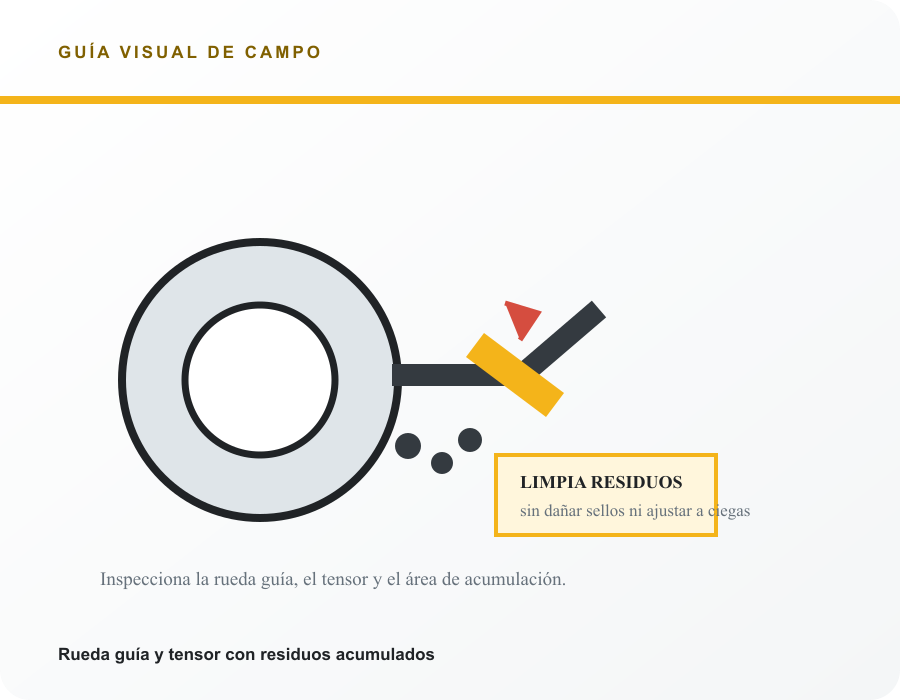
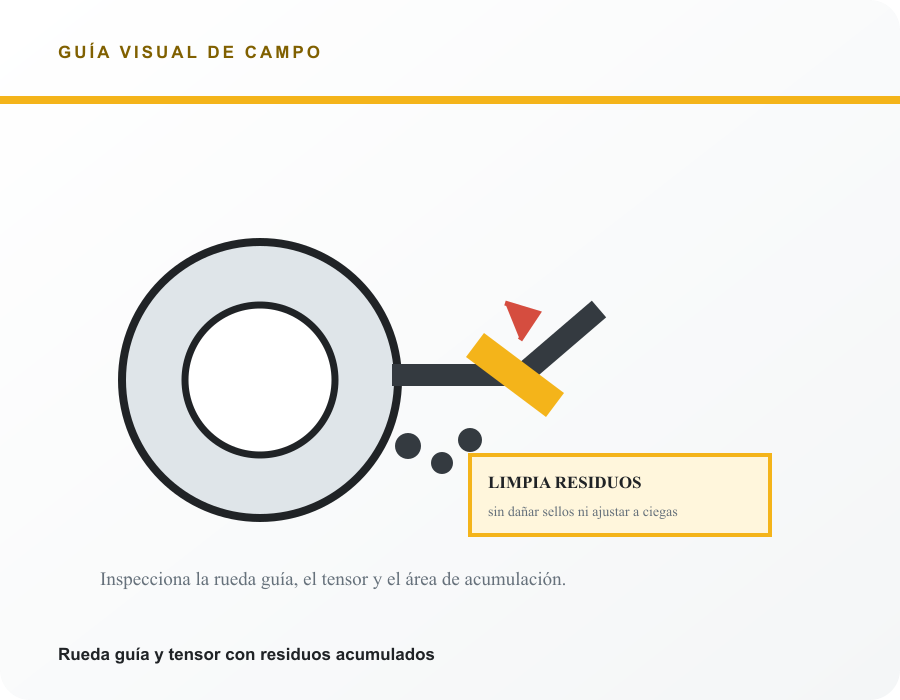
MEJORA ARTICULO DE TREN DE RODAJE Y BUSCADOR MOVIL

Changed region(s): [[0.4978, 0.63, 0.8711, 0.78]]

diff --git a/app/globals.css b/app/globals.css
@@ -28,17 +28,18 @@
 .blog-article-header h1 { margin:.7rem 0 1rem; color:#17212a; font-size:clamp(2.2rem,6vw,3.8rem); font-weight:800; line-height:1.08; letter-spacing:-.04em; }
 .blog-article-header>p { margin:0; color:#64748b; font-size:1.15rem; line-height:1.7; }
 .blog-cover { width:100%; max-height:520px; margin:0 0 2rem; border-radius:1rem; object-fit:cover; }
-.blog-prose { color:#334155; font-size:1.05rem; line-height:1.85; }
-.blog-prose h2 { margin:2.5rem 0 .8rem; color:#17212a; font-size:1.7rem; line-height:1.25; font-weight:750; }
-.blog-prose p { margin:0 0 1.3rem; white-space:pre-wrap; }
+.blog-prose { color:#334155; font-size:1.05rem; line-height:1.7; }
+.blog-prose h2 { margin:1.7rem 0 .65rem; color:#17212a; font-size:1.7rem; line-height:1.25; font-weight:750; }
+.blog-prose p { margin:0 0 .85rem; white-space:normal; }
+.blog-prose p:empty,.blog-prose p:has(> br:only-child) { display:none; }
 .blog-prose ul { margin:0 0 1.5rem; padding-left:1.5rem; list-style:disc; }
 .blog-prose li { padding:.2rem 0; }
 .blog-prose li p { margin:0; }
-.blog-prose figure { margin:2rem 0; }
+.blog-prose figure { margin:1.2rem 0; }
 .blog-prose figure img { width:100%; max-height:620px; border-radius:.85rem; object-fit:contain; background:#f1f5f9; }
 .blog-prose figure.blog-pdf iframe { width:100%; min-height:620px; border:1px solid #d8d8dc; background:#f3f3f4; }
 .blog-page-break { height:1px; margin:3rem 0; border:0; border-top:1px dashed #cbd5e1; break-after:page; }
-.blog-prose figcaption { margin-top:.5rem; color:#64748b; text-align:center; font-size:.85rem; }
+.blog-prose figcaption { margin-top:.4rem; color:#64748b; text-align:center; font-size:.85rem; line-height:1.45; }
 .blog-video { position:relative; width:100%; padding-top:56.25%; overflow:hidden; border-radius:.85rem; background:#0f172a; }
 .blog-video iframe,.blog-video video { position:absolute; inset:0; width:100%; height:100%; border:0; }
 .blog-file { display:flex; width:100%; min-height:48px; box-sizing:border-box; align-items:center; justify-content:space-between; gap:.75rem; margin:1.5rem 0; padding:1rem 1.2rem; border:1px solid #fed7aa; border-radius:.75rem; color:#9a3412; font-weight:700; text-decoration:none; background:#fff7ed; overflow-wrap:anywhere; touch-action:manipulation; cursor:pointer; }
@@ -325,7 +326,7 @@
 .blog-article-summary>span { margin:0 0 .8rem; color:#806000; font-size:.8rem; font-weight:800; letter-spacing:.16em; }
 .blog-article-summary>p { margin:0; color:var(--store-ink); font-size:clamp(1.08rem,2vw,1.3rem); line-height:1.65; }
 .blog-cover { height:100%; min-height:270px; max-height:390px; margin:0; object-fit:cover; }
-.blog-visual-section { display:grid; grid-template-columns:minmax(0,1fr) minmax(280px,.86fr); gap:clamp(1rem,3vw,2.3rem); align-items:center; margin:2.2rem 0; padding:clamp(1rem,3vw,2rem); border:1px solid var(--store-border); border-radius:18px; background:#fff; box-shadow:var(--store-card-shadow); }
+.blog-visual-section { display:grid; grid-template-columns:minmax(0,1fr) minmax(280px,.86fr); gap:clamp(.8rem,2vw,1.4rem); align-items:center; margin:1rem 0; padding:clamp(.8rem,2vw,1.2rem); border:1px solid var(--store-border); border-radius:18px; background:#fff; box-shadow:var(--store-card-shadow); }
 .blog-visual-section.image-left { grid-template-columns:minmax(280px,.86fr) minmax(0,1fr); }
 .blog-visual-section.image-left figure { grid-column:1; grid-row:1; }
 .blog-visual-section.image-left .blog-visual-section__copy { grid-column:2; grid-row:1; }
@@ -333,7 +334,7 @@
 .blog-visual-section__copy> :first-child { margin-top:0; }
 .blog-visual-section__copy> :last-child { margin-bottom:0; }
 .blog-visual-section figure { width:100%; margin:0; }
-.blog-visual-section figure img { width:100%; max-height:480px; border-radius:12px; object-fit:contain; background:#f4f6f7; }
+.blog-visual-section figure img { width:100%; max-height:380px; border-radius:12px; object-fit:contain; background:#f4f6f7; }
 .blog-visual-section figcaption { color:var(--store-muted); font-size:.82rem; line-height:1.45; }
 .blog-photo-credit { display:block; margin-top:.35rem; color:var(--store-muted); font-size:.72rem; line-height:1.4; }
 .blog-photo-credit a { color:inherit; text-decoration:underline; text-underline-offset:2px; }
@@ -374,7 +375,7 @@
 .word-editable [data-blog-section-illustration] { width:100%; height:auto; grid-column:2; grid-row:1; align-self:center; border:1px solid #e3e3e6; background:#f4f6f7; }
 .word-editable [data-blog-section-copy] { min-width:0; grid-column:1; grid-row:1; }
 @media(max-width:720px) { .blog-article-intro,.blog-visual-section,.blog-visual-section.image-left { grid-template-columns:minmax(0,1fr); } .blog-article-summary { min-height:0; } .blog-cover { min-height:0; max-height:300px; } .blog-visual-section.image-left figure,.blog-visual-section.image-left .blog-visual-section__copy { grid-column:1; grid-row:auto; } }
-@media(max-width:720px) { .blog-visual-section { gap:1rem; margin:1.25rem 0; padding:1rem; border-radius:14px; } .blog-visual-section figure img { max-height:none; } .blog-visual-section__copy figure img { max-height:260px; } .blog-visual-section figcaption { font-size:.78rem; } }
+@media(max-width:720px) { .blog-visual-section { gap:.75rem; margin:.85rem 0; padding:.8rem; border-radius:14px; } .blog-visual-section figure img { max-height:300px; } .blog-visual-section__copy figure img { max-height:240px; } .blog-visual-section figcaption { font-size:.78rem; } }
 @media(max-width:760px) { .word-editable [data-blog-article-section],.word-editable [data-blog-article-section][data-blog-layout="image-left"] { grid-template-columns:minmax(0,1fr); } .word-editable [data-blog-article-section] [data-blog-section-illustration],.word-editable [data-blog-article-section] [data-blog-section-copy] { grid-column:1; grid-row:auto; } }
 
 :root {
@@ -476,6 +477,14 @@ main.min-h-screen.bg-slate-50 { background-color: var(--store-bg); }
 .site-navbar__mobile .border-slate-200 { border-color: #39393d; }
 .site-navbar__mobile a:hover { background: #252529; }
 .site-navbar__mobile input { color: #242426; background: #fff; }
+.site-navbar__mobile .navbar-search-suggestions { color:#242426; background:#fff; border-color:#dedee2; }
+.site-navbar__mobile .navbar-search-suggestions__heading { color:#74747a; background:#f5f5f6; }
+.site-navbar__mobile .navbar-search-suggestion { color:#303036; background:#fff; }
+.site-navbar__mobile .navbar-search-suggestion:hover,.site-navbar__mobile .navbar-search-suggestion:focus-visible { color:#171719; background:#fff8e5; outline:none; }
+.site-navbar__mobile .navbar-search-suggestion__title { color:#242426; }
+.site-navbar__mobile .navbar-search-suggestion__sku { color:#717178; }
+.site-navbar__mobile .navbar-search-suggestion__brand { color:#965c00; }
+.site-navbar__mobile .navbar-search-suggestions .bg-slate-50 { color:#707077; background:#f5f5f6; border-color:#e5e5e8; }
 .support-menu { position: absolute; top: calc(100% + 12px); left: 0; z-index: 80; width: min(680px, calc(100vw - 32px)); padding: 18px; border: 1px solid var(--store-border); border-radius: 18px; background: #fff; color: var(--store-ink); box-shadow: 0 18px 45px rgba(18,18,18,.18); }
 .support-menu__tabs { display: flex; gap: 8px; padding-bottom: 14px; border-bottom: 1px solid var(--store-border); }
 .support-menu__tabs button { padding: 8px 13px; border: 1px solid var(--store-border); border-radius: 999px; color: var(--store-muted); font-size: 12px; font-weight: 700; }

diff --git a/components/BlogContent.js b/components/BlogContent.js
@@ -10,6 +10,47 @@ function pdfLabel(value) {
   return String(value || '').replace(/^(?:📄\s*)+/, '').replace(/(?:\s*↗)+$/, '').trim() || 'Abrir documento PDF';
 }
 
+const articleTwoIllustrations = {
+  'articulo-2-zapatas.png': {
+    alt: 'Esquema ilustrativo de zapatas y eslabones de oruga con un perno faltante',
+    title: 'Esquema ilustrativo: identifica grietas, deformaciones o pernos faltantes en las zapatas.',
+  },
+  'articulo-2-rodillos.png': {
+    alt: 'Diagrama de inspección de rodillos inferiores con una señal de posible fuga',
+    title: 'Diagrama de referencia: busca desgaste, daños y humedad alrededor de los sellos.',
+  },
+  'articulo-2-sprocket.png': {
+    alt: 'Esquema ilustrativo de una rueda dentada con perfil desgastado',
+    title: 'Esquema ilustrativo: compara el perfil de los dientes y su contacto con la cadena.',
+  },
+  'articulo-2-guia-tensor.png': {
+    alt: 'Esquema ilustrativo de rueda guía y tensor con residuos acumulados',
+    title: 'Esquema ilustrativo: ubica residuos alrededor de la rueda guía y el tensor.',
+  },
+  'articulo-2-bastidor.png': {
+    alt: 'Diagrama esquemático del bastidor y las protecciones de una excavadora de orugas',
+    title: 'Diagrama de referencia: revisa el bastidor, las fijaciones y las protecciones.',
+  },
+  'articulo-2-limpieza.png': {
+    alt: 'Diagrama ilustrativo de barro acumulado en rodillos y cadena',
+    title: 'Diagrama ilustrativo: retira barro y piedras antes de inspeccionar el tren de rodaje.',
+  },
+  'articulo-2-tension-manual.png': {
+    alt: 'Diagrama orientativo de medición de tensión y consulta del manual de la máquina',
+    title: 'Diagrama orientativo: consulta el procedimiento y las medidas del manual de tu máquina.',
+  },
+  'articulo-2-rutina.png': {
+    alt: 'Infografía con cinco pasos para inspeccionar el tren de rodaje por turno',
+    title: 'Infografía: sigue esta rutina por turno y registra cualquier anomalía.',
+  },
+};
+
+function imageDetails(src, alt, title) {
+  const filename = String(src || '').split('/').pop();
+  const illustration = articleTwoIllustrations[filename];
+  return illustration ? { ...illustration } : { alt: alt || title || '', title };
+}
+
 function PdfLink({ href, children }) {
   return <a className="blog-file" href={href} target="_blank" rel="noopener noreferrer">{children}</a>;
 }
@@ -37,7 +78,12 @@ function renderNode(node, key) {
   const children = (node.content || []).map((child, index) => renderNode(child, `${key}-${index}`));
   if (node.type === 'doc') return <>{children}</>;
   if (node.type === 'articleSection') return <section key={key} className={`blog-visual-section ${node.attrs?.layout || 'image-right'}`}><div className="blog-visual-section__copy">{children}</div><figure><BlogImageZoom src={node.attrs.src} alt={node.attrs.alt || node.attrs.title || ''} /><figcaption>{node.attrs.title}<BlogPhotoCredit src={node.attrs.src} /></figcaption></figure></section>;
-  if (node.type === 'paragraph') return <p key={key} style={node.attrs?.align ? { textAlign: node.attrs.align } : undefined}>{children}</p>;
+  if (node.type === 'paragraph') {
+    const plainText = (node.content || []).filter(child => child.type === 'text').map(child => child.text || '').join('');
+    const articleTwoSourceNote = 'Las imágenes son de Unsplash. El video y los enlaces llevan a referencias externas sobre mantenimiento e inspección.';
+    const correctedSourceNote = 'El artículo combina diagramas ilustrativos, fotografías con su atribución y recursos externos. Confirma siempre los procedimientos en el manual de tu máquina.';
+    return <p key={key} style={node.attrs?.align ? { textAlign: node.attrs.align } : undefined}>{plainText === articleTwoSourceNote ? correctedSourceNote : children}</p>;
+  }
   if (node.type === 'heading') {
     const level = [1, 2, 3].includes(Number(node.attrs?.level)) ? Number(node.attrs.level) : 2;
     const style = node.attrs?.align ? { textAlign: node.attrs.align } : undefined;
@@ -53,7 +99,10 @@ function renderNode(node, key) {
   if (node.type === 'horizontalRule') return <hr key={key} />;
   if (node.type === 'pageBreak') return <hr key={key} className="blog-page-break" />;
   const mediaStyle = { width: `${node.attrs?.width || 100}%`, marginLeft: node.attrs?.align === 'left' ? 0 : 'auto', marginRight: node.attrs?.align === 'right' ? 0 : 'auto' };
-  if (node.type === 'image') return <figure key={key} style={mediaStyle}><BlogImageZoom src={node.attrs.src} alt={node.attrs.alt || node.attrs.title || ''} />{node.attrs.title && <figcaption>{node.attrs.title}<BlogPhotoCredit src={node.attrs.src} /></figcaption>}</figure>;
+  if (node.type === 'image') {
+    const details = imageDetails(node.attrs.src, node.attrs.alt, node.attrs.title);
+    return <figure key={key} style={mediaStyle}><BlogImageZoom src={node.attrs.src} alt={details.alt} />{details.title && <figcaption>{details.title}<BlogPhotoCredit src={node.attrs.src} /></figcaption>}</figure>;
+  }
   if (node.type === 'video' && isPdfUrl(node.attrs.src)) return <figure key={key} className="blog-pdf" style={mediaStyle}><PdfLink href={node.attrs.src}>📄 {pdfLabel(node.attrs.title)} <span>↗</span></PdfLink></figure>;
   if (node.type === 'video') return <figure key={key} style={mediaStyle}><div className="blog-video">{node.attrs.src.includes('/video/upload/') ? <video src={node.attrs.src} title={node.attrs.title || 'Video del artículo'} controls preload="metadata" /> : <iframe src={node.attrs.src} title={node.attrs.title || 'Video del artículo'} loading="lazy" allow="accelerometer; autoplay; clipboard-write; encrypted-media; gyroscope; picture-in-picture; web-share" allowFullScreen />}</div>{node.attrs.title && <figcaption>{node.attrs.title}</figcaption>}</figure>;
   if (node.type === 'pdf') return <figure key={key} className="blog-pdf" style={mediaStyle}><PdfLink href={node.attrs.src || node.attrs.href}>📄 {pdfLabel(node.attrs.label || node.attrs.title)} <span>↗</span></PdfLink></figure>;

diff --git a/components/navbar.js b/components/navbar.js
@@ -184,24 +184,24 @@ export default function Navbar() {
     const tieneProds = sugerenciasProds.length > 0 || cargandoProds;
     if (!mostrarSugerencias || !tieneProds) return null;
     return (
-      <div className="absolute left-0 top-full z-[100] mt-1 w-80 sm:w-96 rounded-xl border border-slate-200 bg-white shadow-xl overflow-hidden">
+      <div className="navbar-search-suggestions absolute left-0 top-full z-[100] mt-1 w-80 sm:w-96 rounded-xl border border-slate-200 bg-white shadow-xl overflow-hidden">
         <ul className="py-1 max-h-[70vh] overflow-y-auto">
-          <li><p className="px-3.5 py-1.5 text-[10px] font-semibold uppercase tracking-[0.2em] text-slate-400 bg-slate-50/80">Productos</p></li>
+          <li><p className="navbar-search-suggestions__heading px-3.5 py-1.5 text-[10px] font-semibold uppercase tracking-[0.2em] text-slate-400 bg-slate-50/80">Productos</p></li>
           {cargandoProds && sugerenciasProds.length === 0 && (<li><div className="px-3.5 py-4 text-center text-sm text-slate-400">Buscando productos...</div></li>)}
           {sugerenciasProds.map((prod, index) => {
             const thisIndex = index;
             const isActive = sugerenciaActiva === thisIndex;
             return (
               <li key={`prod-${prod.id}`}>
-                <button type="button" className={`w-full text-left px-3.5 py-2.5 flex items-center gap-3 transition-colors ${isActive ? 'bg-amber-50 text-slate-900' : 'text-slate-700 hover:bg-slate-50'}`}
+                <button type="button" className={`navbar-search-suggestion w-full text-left px-3.5 py-2.5 flex items-center gap-3 transition-colors ${isActive ? 'bg-amber-50 text-slate-900' : 'text-slate-700 hover:bg-slate-50'}`}
                   onMouseDown={event => { event.preventDefault(); router.push(`/productos/${prod.id}`); setBuscarNav(''); setMostrarSugerencias(false); }}
                   onMouseEnter={() => setSugerenciaActiva(thisIndex)}>
                   {prod.imagen ? <img src={prod.imagen} alt="" className="h-10 w-10 rounded-lg object-contain bg-white border border-slate-200 flex-shrink-0" /> : <span className="flex items-center justify-center h-10 w-10 rounded-lg bg-slate-100 border border-slate-200 text-slate-400 flex-shrink-0" aria-hidden="true"><svg viewBox="0 0 24 24" width="20" height="20" fill="none" stroke="currentColor" strokeWidth="1.5"><path d="M4 8h16v11H4zM7 8l1.5-3h7L17 8M8 13h.01M12 13h.01M16 13h.01"/><path d="M7 19v2m10-2v2"/></svg></span>}
                   <div className="flex-1 min-w-0">
-                    <p className="text-sm font-medium truncate">{prod.nombre}</p>
+                    <p className="navbar-search-suggestion__title text-sm font-medium truncate">{prod.nombre}</p>
                     <div className="flex items-center gap-2 mt-0.5">
-                      {prod.sku && <span className="text-[10px] font-mono text-slate-400">{prod.sku}</span>}
-                      {prod.marcas && <span className="text-[10px] text-orange-500 font-medium">{prod.marcas}</span>}
+                      {prod.sku && <span className="navbar-search-suggestion__sku text-[10px] font-mono text-slate-400">{prod.sku}</span>}
+                      {prod.marcas && <span className="navbar-search-suggestion__brand text-[10px] text-orange-500 font-medium">{prod.marcas}</span>}
                     </div>
                   </div>
                   <span className="text-orange-400 text-xs flex-shrink-0">→</span>
